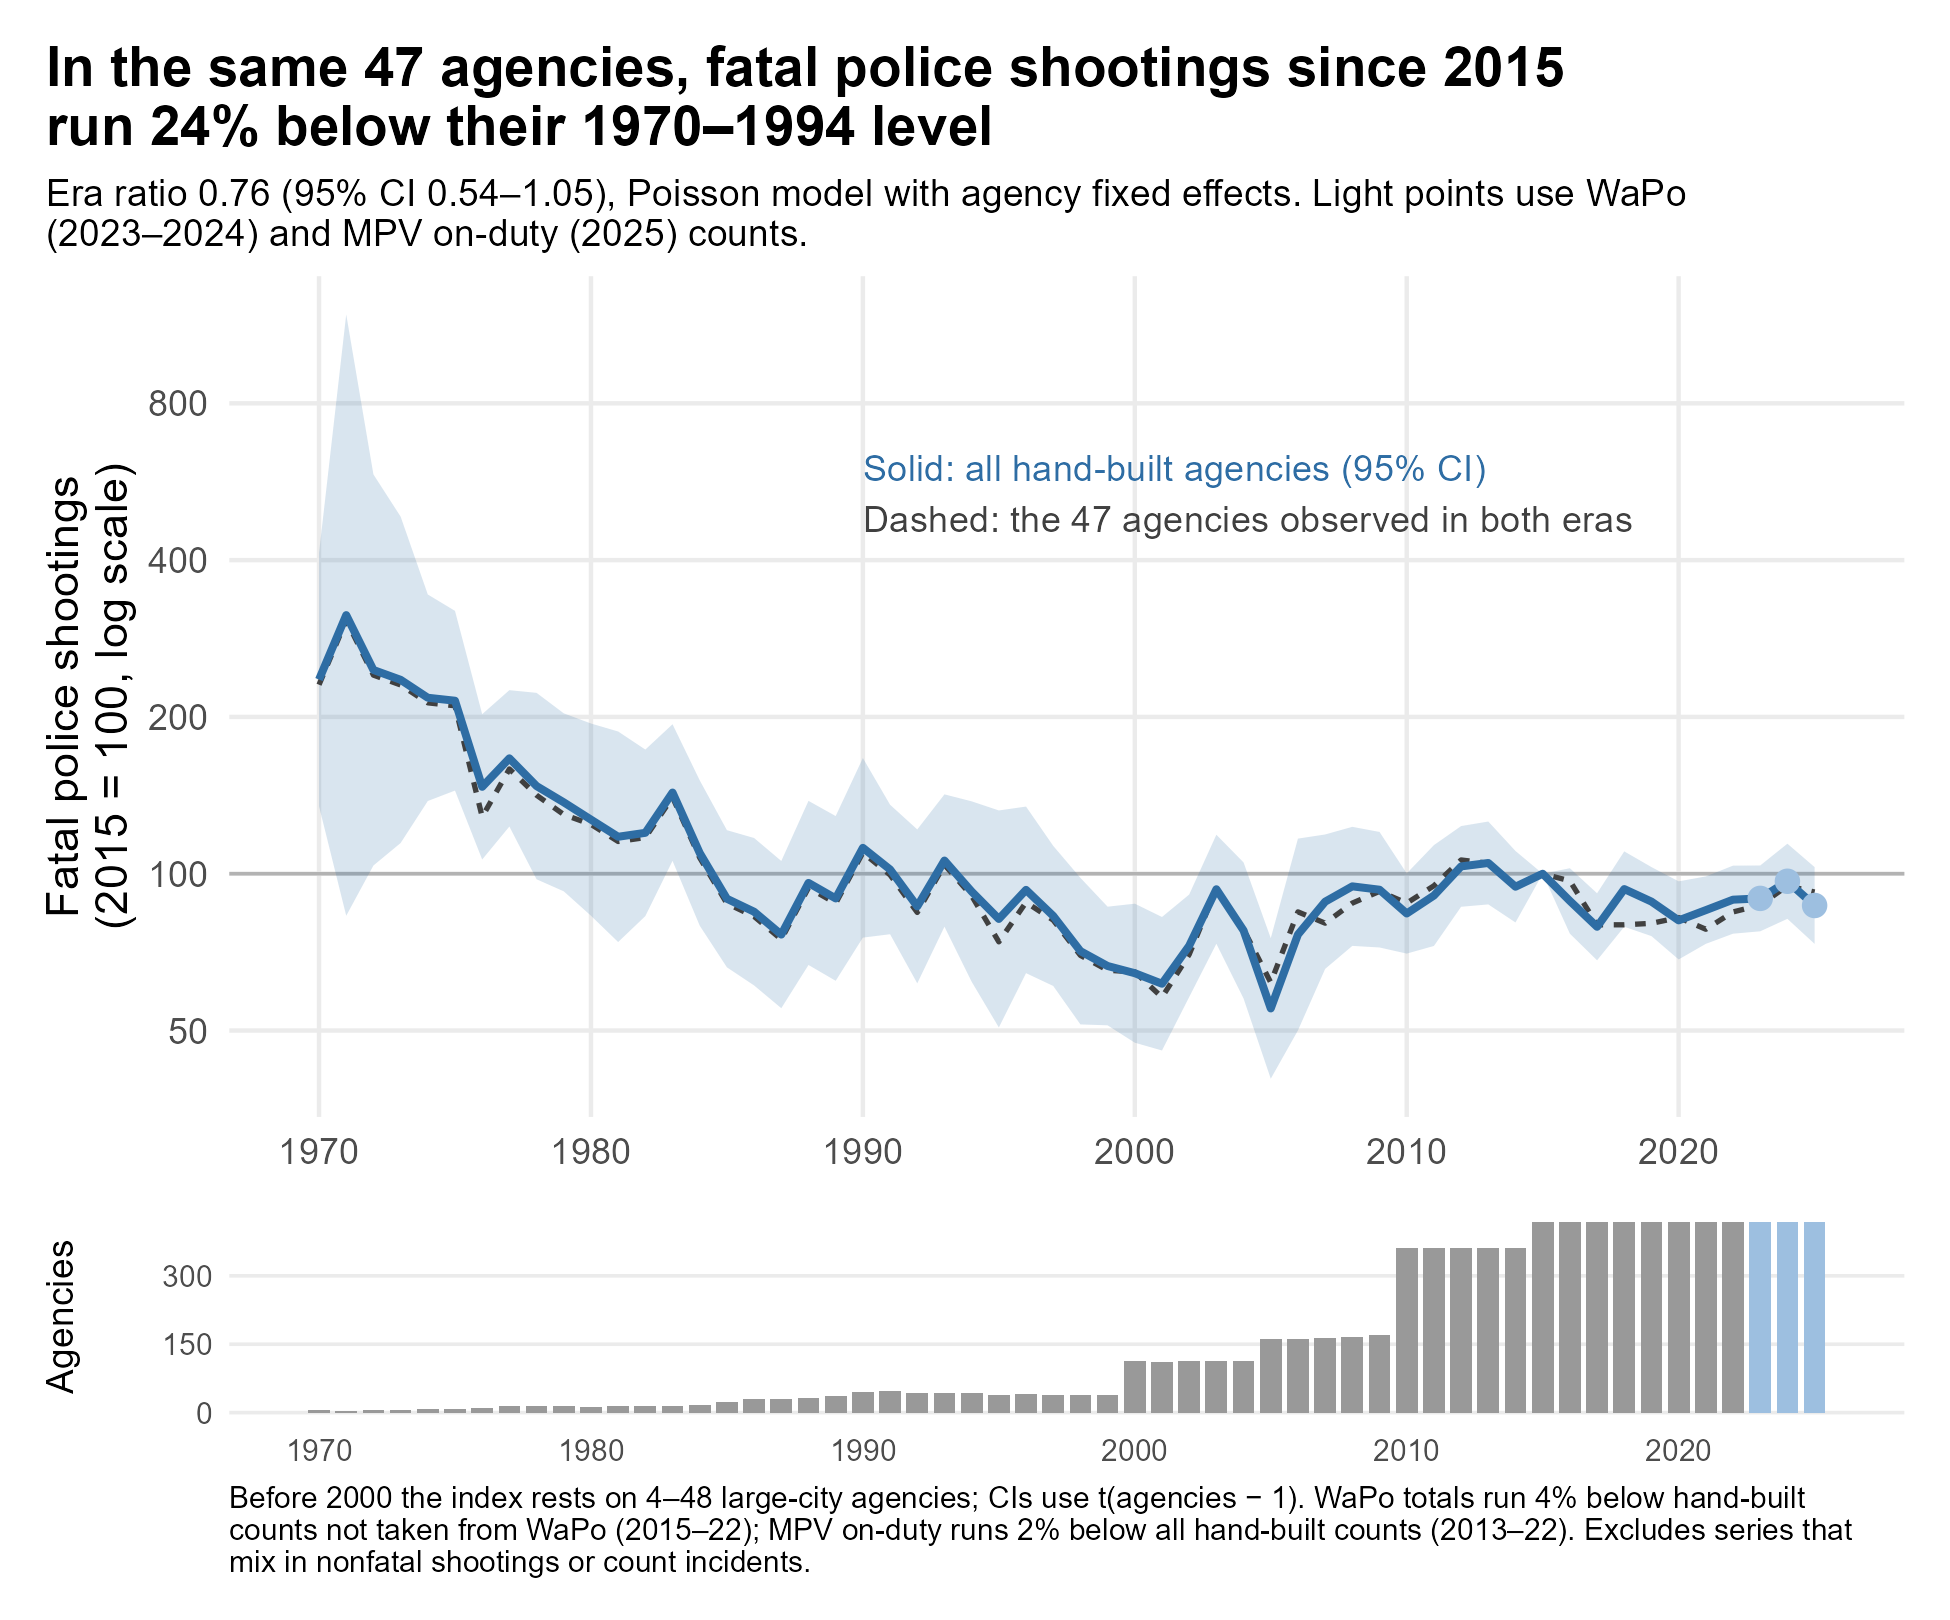
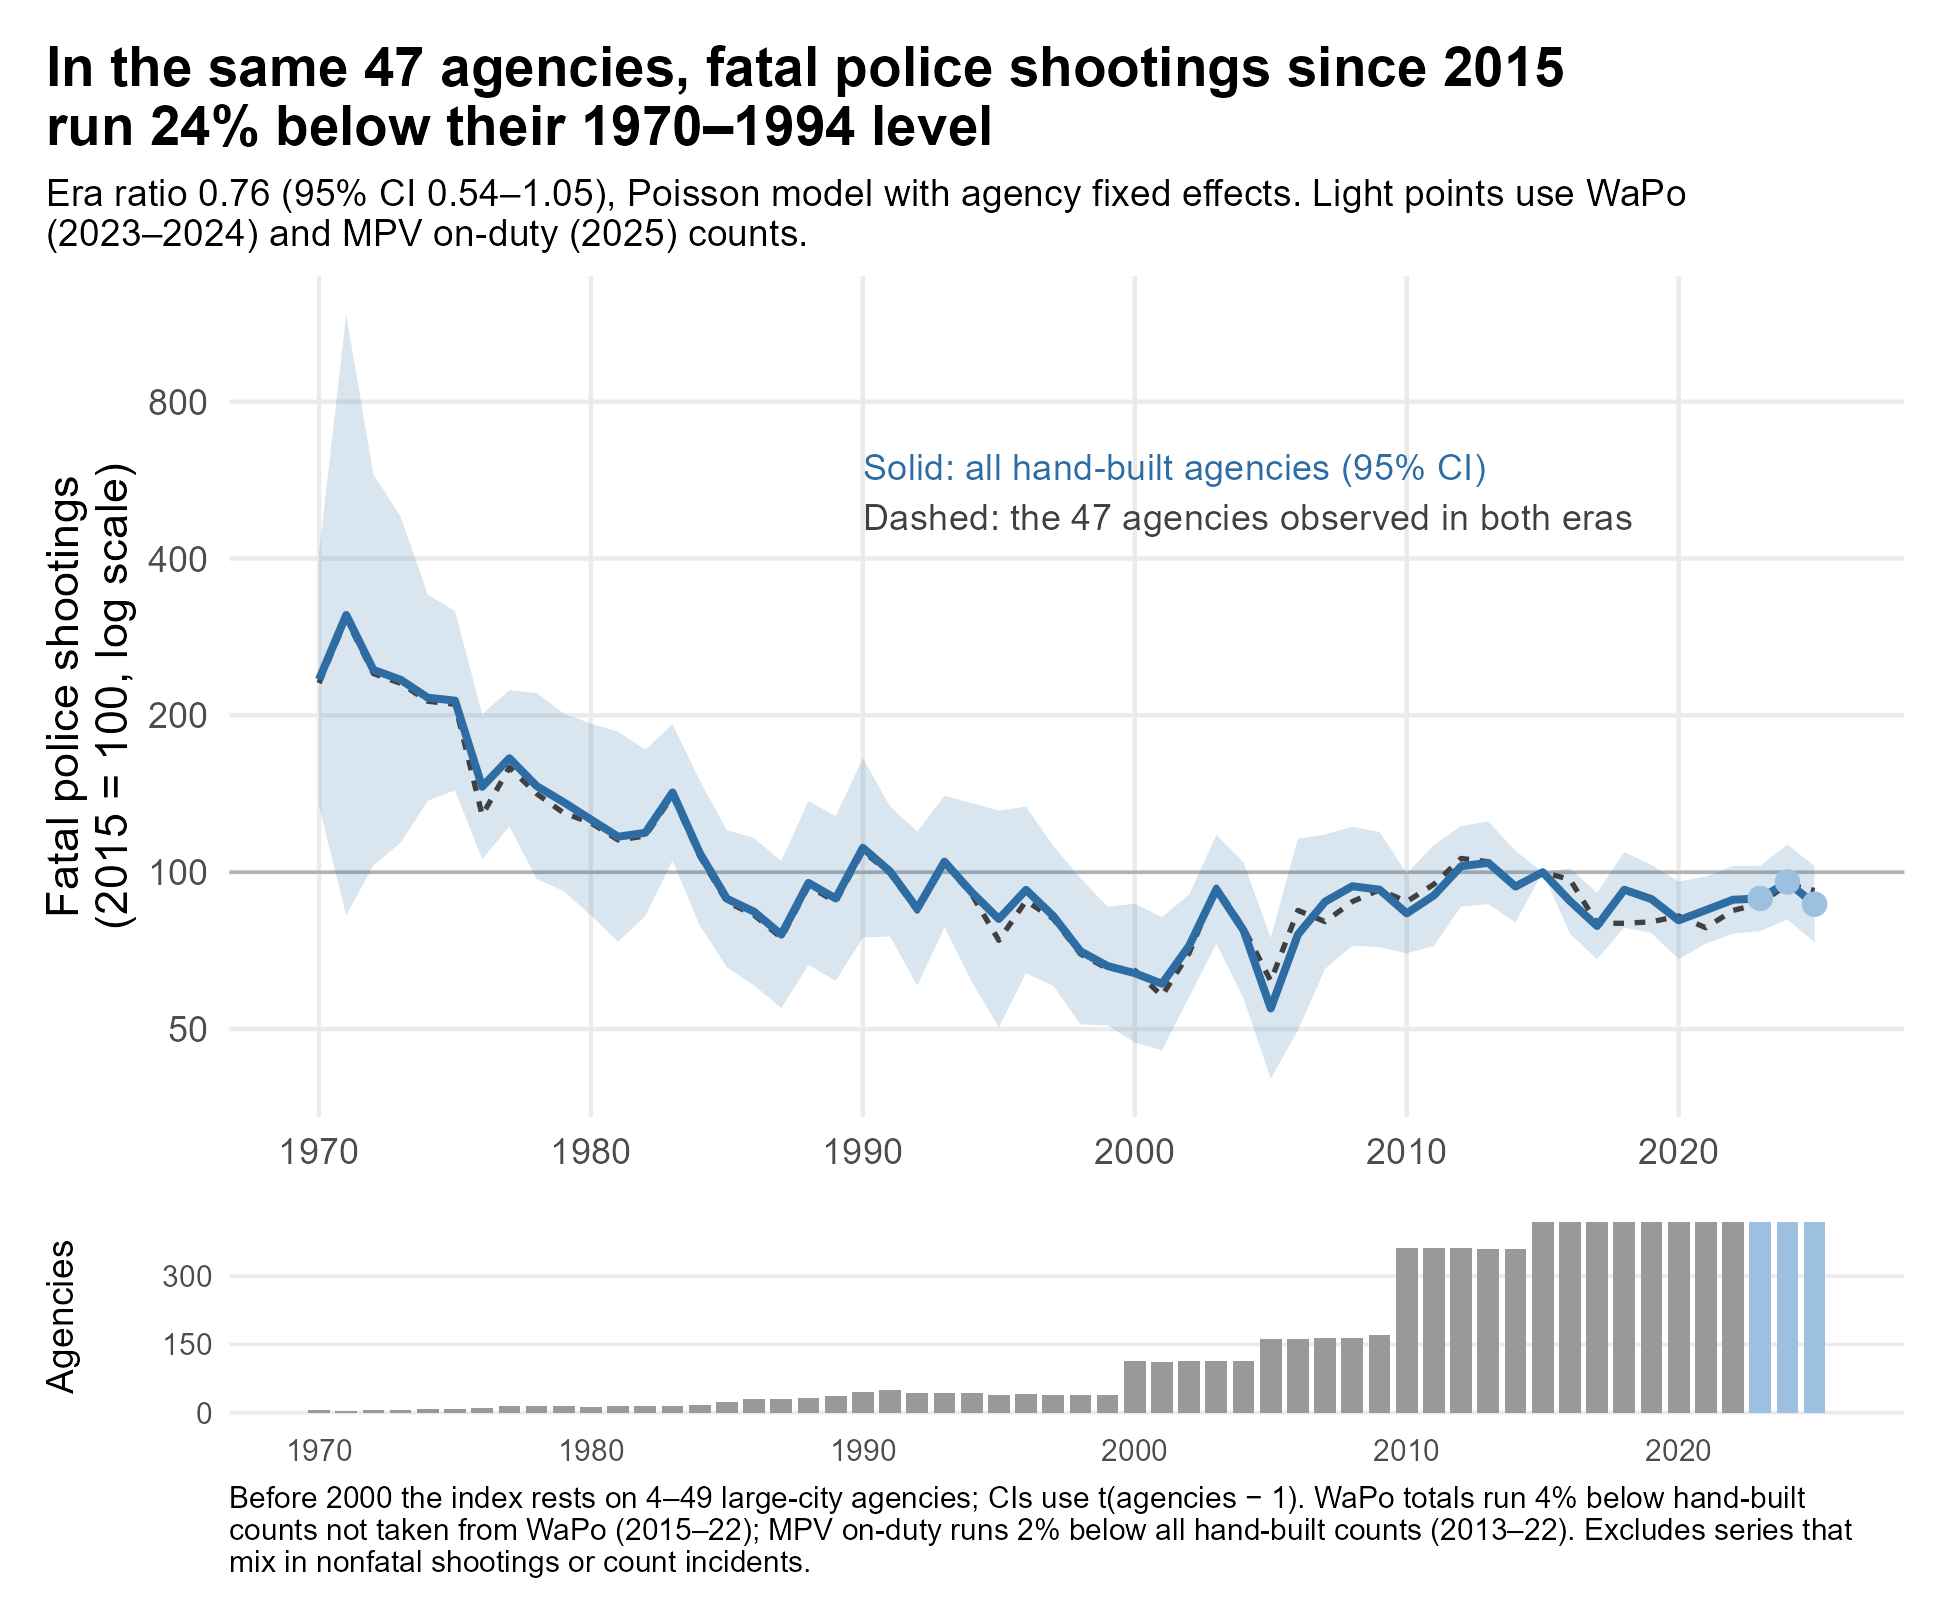
Add Baltimore County PD (MD) Sep 1990-94 to n_nix (Baltimore Sun reconstruction) (#53)
Certainty-stratum agency from the protocol draw. 1991-94 = 1, 1, 2, 2; no
deaths in Sep 10-Dec 31, 1990. Matches SHR (MD00301) in every year. Recall
check 2000-05: the same search channels found all 11 of FE's non-suicide
gunshot deaths (FE's 4 others are suicides by its own dispositions).

The Sun enters NewsBank on Sep 10, 1990, and no other paper covers the
county before then. Sep 10-Dec 31, 1990 is entered as a period total
(0 deaths, about 0.31 years), so the agency has about 4.3 exposure-years
and stays out of the main comparison (JN decision). A supplemental analysis
may substitute SHR for such gaps where SHR agrees closely.

New slug baltimore_county_md. Pipeline rerun: long panel unchanged at 47,
era ratio 0.76; README numbers refreshed from trend_summary.csv.

diff --git a/README.md b/README.md
@@ -1,6 +1,6 @@
 # agency-level-fatal-OIS
 
-Annual counts of people shot and killed by on-duty police, by agency, going back as far as I can find them. The hand-built series start in 1969 for Chicago and cover 420 agencies. They sit side by side with four national sources: [*The Washington Post*'s Fatal Force](https://github.com/washingtonpost/data-police-shootings) (2015–2024), [Fatal Encounters](https://fatalencounters.org/) (2000–2021), [Mapping Police Violence](https://mappingpoliceviolence.org/) (2013–present, the only one still updating), and the FBI's Supplementary Homicide Reports (1976–2024, known to miss many police killings). Every series is keyed to the agency's FBI ORI code.
+Annual counts of people shot and killed by on-duty police, by agency, going back as far as I can find them. The hand-built series start in 1969 for Chicago and cover 421 agencies. They sit side by side with four national sources: [*The Washington Post*'s Fatal Force](https://github.com/washingtonpost/data-police-shootings) (2015–2024), [Fatal Encounters](https://fatalencounters.org/) (2000–2021), [Mapping Police Violence](https://mappingpoliceviolence.org/) (2013–present, the only one still updating), and the FBI's Supplementary Homicide Reports (1976–2024, known to miss many police killings). Every series is keyed to the agency's FBI ORI code.
 
 **If you just want the data:**
 
@@ -24,9 +24,9 @@ Are police killing more people now than in decades past? National data can't ans
 
 ![Within-agency trend in fatal police shootings](output/figures/trend_index.png)
 
-**How the trend is estimated.** The solid line comes from a Poisson model with agency fixed effects, fit to all 420 hand-built agencies. It compares each agency with itself, so agencies entering or leaving the data don't move the line. Most hand-built counts for 2015 onward were taken from WaPo in the first place (see [Background](#background)), so WaPo fills 2015–24 wherever an agency has no hand-built count; the hand-built series end in 2022. MPV on-duty counts fill 2025 for series that reach 2024. Two hand-built series are left out because they mix in nonfatal shootings, Las Vegas and Cincinnati; WaPo stands in for both from 2015.
+**How the trend is estimated.** The solid line comes from a Poisson model with agency fixed effects, fit to all 421 hand-built agencies. It compares each agency with itself, so agencies entering or leaving the data don't move the line. Most hand-built counts for 2015 onward were taken from WaPo in the first place (see [Background](#background)), so WaPo fills 2015–24 wherever an agency has no hand-built count; the hand-built series end in 2022. MPV on-duty counts fill 2025 for series that reach 2024. Two hand-built series are left out because they mix in nonfatal shootings, Las Vegas and Cincinnati; WaPo stands in for both from 2015.
 
-**How far back it reaches.** Before 2000, the solid line rests on only 4–48 departments, mostly large cities. It describes big cities, not the country. The [coverage figure](#coverage-figure) below shows exactly which agency-years each source covers.
+**How far back it reaches.** Before 2000, the solid line rests on only 4–49 departments, mostly large cities. It describes big cities, not the country. The [coverage figure](#coverage-figure) below shows exactly which agency-years each source covers.
 
 **What it shows.** The headline compares one fixed set of agencies: the 47 with at least five years of data both before 1995 and since 2015, shown as the dashed line. In those agencies, fatal police shootings since 2015 run 24% below their 1970–1994 level (ratio 0.76, 95% CI 0.55–1.05).
 
@@ -44,7 +44,7 @@ The reconstructions are floors, because a search can miss deaths but can't inven
 
 ![Agencies with data before 2000](output/figures/coverage_tiles.png)
 
-**Reach.** The 54 agencies above carry the long-run record back before 2000. Each year shows the first source that covers it: newspaper reconstruction (orange), other hand-built sources (dark blue), WaPo or MPV where there is no hand-built count (light blue), and Fatal Encounters alone (grey; FE is not used in the trend figures). Blank years are true gaps. Overall, the hand-built agencies were involved in at least 33% of everyone shot and killed by police in WaPo's data, 2015–2024 ("at least" because deaths are matched through each WaPo agency's primary ORI, so some matches are missed).
+**Reach.** The 55 agencies above carry the long-run record back before 2000. Each year shows the first source that covers it: newspaper reconstruction (orange), other hand-built sources (dark blue), WaPo or MPV where there is no hand-built count (light blue), and Fatal Encounters alone (grey; FE is not used in the trend figures). Blank years are true gaps. Overall, the hand-built agencies were involved in at least 33% of everyone shot and killed by police in WaPo's data, 2015–2024 ("at least" because deaths are matched through each WaPo agency's primary ORI, so some matches are missed).
 
 Numbers in this section come from [`trend_summary.csv`](output/tables/trend_summary.csv), [`trend_index.csv`](output/tables/trend_index.csv), [`then_vs_now.csv`](output/tables/then_vs_now.csv), [`era_ratio_sensitivity.csv`](output/tables/era_ratio_sensitivity.csv), and [`coverage_share.csv`](output/tables/coverage_share.csv), all written by [`scripts/07_figures_trends.R`](scripts/07_figures_trends.R).
 
@@ -70,7 +70,7 @@ Correlations and every pairing of the national sources are in [`source_agreement
 
 Some agencies report other homicides to SHR but not their own officers' killings, which produces false zeros. New York's SHR reports list no police killings in 2007–14 (84 by the hand-built count), and Chicago's list none from 2016 on (38 in 2016–22). SHR also files a death under the reporting agency, which is sometimes the investigating agency rather than the one whose officer fired. Treat `n_shr` as a lower bound, and don't read its zeros as zero.
 
-Against the newspaper reconstructions, SHR runs a little high, as you'd expect: it also counts off-duty killings, and a newspaper search can miss a death. In the agency-years both cover, the reconstructions count 687 deaths and SHR 705, with identical counts in 224 of 403.
+Against the newspaper reconstructions, SHR runs a little high, as you'd expect: it also counts off-duty killings, and a newspaper search can miss a death. In the agency-years both cover, the reconstructions count 693 deaths and SHR 711, with identical counts in 228 of 407.
 
 ![The four largest departments, five sources](output/figures/four_largest.png)
 
@@ -137,7 +137,7 @@ I decided, for now at least, to focus on fatal shootings, since they're more rel
 | [Springfield (MO) PD](https://www.springfieldmo.gov/3755/Officer-Involved-Shootings) | 2008–2022 | Springfield (MO) PD |
 | [Austin open data portal](https://data.austintexas.gov/Public-Safety/Officer-Involved-Shooting-2000-2014/63p6-iegi) | 2008–2014 (2000–07 replaced by the Statesman reconstruction) | Austin PD |
 | [Dallas open data portal](https://www.dallasopendata.com/Public-Safety/Dallas-Police-Officer-Involved-Shootings/4gmt-jyx2) | 2003–2022 | Dallas PD |
-| Local newspapers via NewsBank: see [Newspaper reconstructions](#newspaper-reconstructions) below | 1980–2009 | Omaha, Lincoln, Oklahoma City, Columbus, Denver, Tulsa, San Antonio, Sacramento PD, Sacramento Co. SD, Portland (OR), Austin, Harris Co. SO, Charlotte, Fresno, San Jose, Dallas, San Diego, Kansas City (MO), Chicago, LAPD (1993–94), Milwaukee, San Francisco, Colorado Springs, Orlando, Anchorage, Baltimore (1995–96), Newark, Miami-Dade, Orange Co. SO (FL), Jefferson Parish SO, San Diego Co. SD, Broward SO, Cobb Co. PD, Anaheim, Fairfax Co. PD, Montgomery Co. PD (MD), Prince George's Co. PD, LASD (1985–Jul 1990 period total) |
+| Local newspapers via NewsBank: see [Newspaper reconstructions](#newspaper-reconstructions) below | 1980–2009 | Omaha, Lincoln, Oklahoma City, Columbus, Denver, Tulsa, San Antonio, Sacramento PD, Sacramento Co. SD, Portland (OR), Austin, Harris Co. SO, Charlotte, Fresno, San Jose, Dallas, San Diego, Kansas City (MO), Chicago, LAPD (1993–94), Milwaukee, San Francisco, Colorado Springs, Orlando, Anchorage, Baltimore (1995–96), Newark, Miami-Dade, Orange Co. SO (FL), Jefferson Parish SO, San Diego Co. SD, Broward SO, Cobb Co. PD, Anaheim, Fairfax Co. PD, Montgomery Co. PD (MD), Prince George's Co. PD, Baltimore Co. PD, LASD (1985–Jul 1990 period total) |
 | Jacksonville Sheriff's Office, [*Police Involved Shootings*](https://web.archive.org/web/20150717050006/http://www.jaxsheriff.org/departments/sheriffs-office/docs/sheriff-john-rutherford/police-involved-shootings-final.aspx) (Jan. 2009; archived copy) | 2007–2008 | Jacksonville SO |
 | [Cincinnati open data portal](https://data.cincinnati-oh.gov/Safety/PDI-Police-Data-Initiative-Officer-Involved-Shooti/r6q4-muts) | 1996–2019 | Cincinnati PD |
 | [Vermont open data portal](https://data.vermont.gov/Public-Safety/Vermont-State-Police-Officer-Involved-Shootings-19/du86-kfnp) | 1977–2022 | Vermont State Police |
@@ -198,6 +198,7 @@ The method, a note on every agency, and the checks against each paper's own coun
 | Fairfax County PD (VA) | *The Washington Times* | 1990–1994 | 3 | 3 |
 | Montgomery County PD (MD) | *The Washington Times* | 1990–1994 | 6 | 5 |
 | Prince George's County PD (MD) | *The Washington Times* (paper-stated totals 1992–93) | 1990–1994 | 22 | 28 |
+| Baltimore County PD (MD) | *The Sun* (Baltimore) | Sep 1990 – 1994 | 6 | 6 |
 | LA County Sheriff (period total) | *Daily News of Los Angeles* (Oct. 7, 1990 study) | Jan 1985 – Jul 1990 | 75 | 42 (1985–90) |
 
 

diff --git a/data/historical/README.md b/data/historical/README.md
@@ -57,4 +57,5 @@ The SHR column is the FBI's count of people killed by the agency's officers with
 | Fairfax County PD (VA) | *The Washington Times* | 1990–1994 | 3 | 3 | The *Times* is in NewsBank from 1990, so five years only. Matches SHR in every year. A Nov 1993 story calls that death the year's fifth Fairfax officer shooting. FE recall (2 of 2, 2000–01) |
 | Montgomery County PD (MD) | *The Washington Times* | 1990–1994 | 6 | 5 | Matches SHR except 1991 (2 vs 1), where a Dec 1991 tally of county homicides confirms 2 county PD deaths plus 1 by Rockville PD |
 | Prince George's County PD (MD) | *The Washington Times* | 1990–1994 | 22 | 28 | 1992 (5) and 1993 (8) are the paper's own year totals; 17 of the 22 deaths are named. 1990 and 1994 are floors. SHR for this ORI files killings by place (DC, municipal and off-duty officers included) |
+| Baltimore County PD (MD) | *The Sun* (Baltimore) | Sep 1990–1994 | 6 | 6 | The *Sun* is in NewsBank only from Sep. 10, 1990, and no other paper covers the county before then, so 1990 is entered as a partial-year period total (no deaths) and the agency has about 4.3 years, short of the five the comparison needs. Matches SHR in every year. Recall check: the same searches found all 11 of Fatal Encounters' 2000–05 deaths that were not suicides. Counts a 1992 death in which an officer's gun went off during a struggle |
 | LA County Sheriff (period total) | *Daily News of Los Angeles* | Jan 1985 – Jul 1990 | 75 | 42 (1985–90) | Not yearly counts: a 1990 *Daily News* study of all 202 on-duty deputy shootings found 75 deaths. It enters only the then-vs-now comparison, with 5.57 years of exposure. See `period_totals.csv` |
